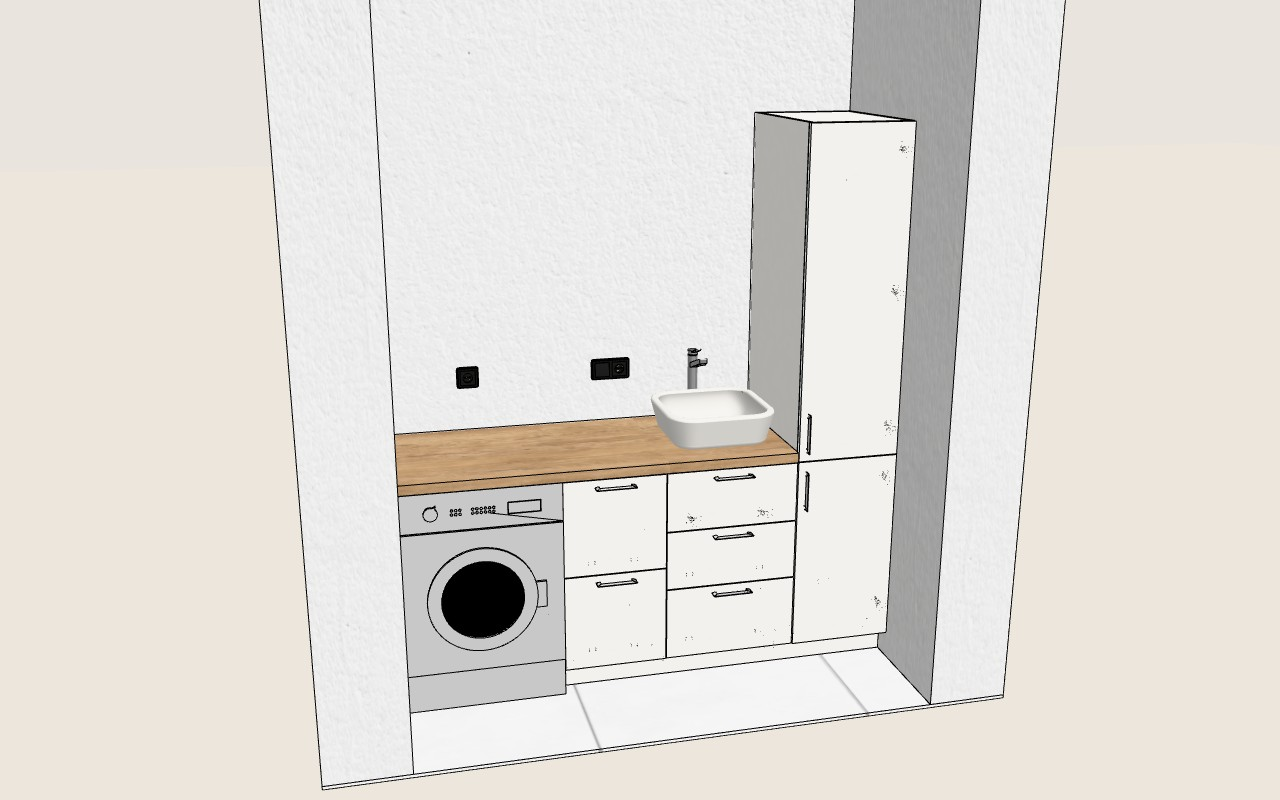
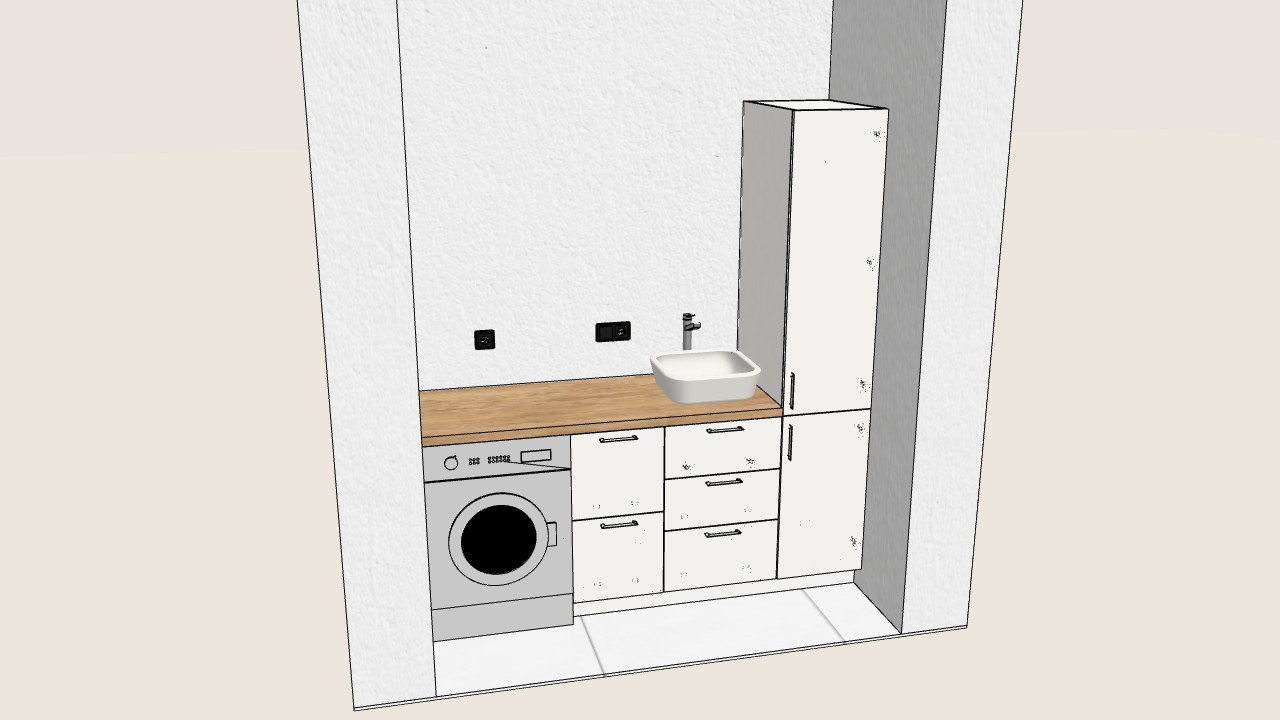
Знімок прев'ю на все вікно, 1280×720

diff --git a/style.css b/style.css
@@ -444,3 +444,5 @@ body {
 /* Режим знімка (?shot=1): лише сцена й логотип — для прев'ю в Telegram */
 body.shot #header, body.shot #sidebar, body.shot #toolbar, body.shot #viewcube, body.shot #loader, body.shot #toast { display: none !important; }
 body.shot .watermark { height: 56px; opacity: 0.85; right: 20px; bottom: 18px; }
+/* У режимі знімка сцена займає все вікно — інакше кадр виходить дрібним */
+body.shot #stage { position: fixed; inset: 0; min-height: 0; }
